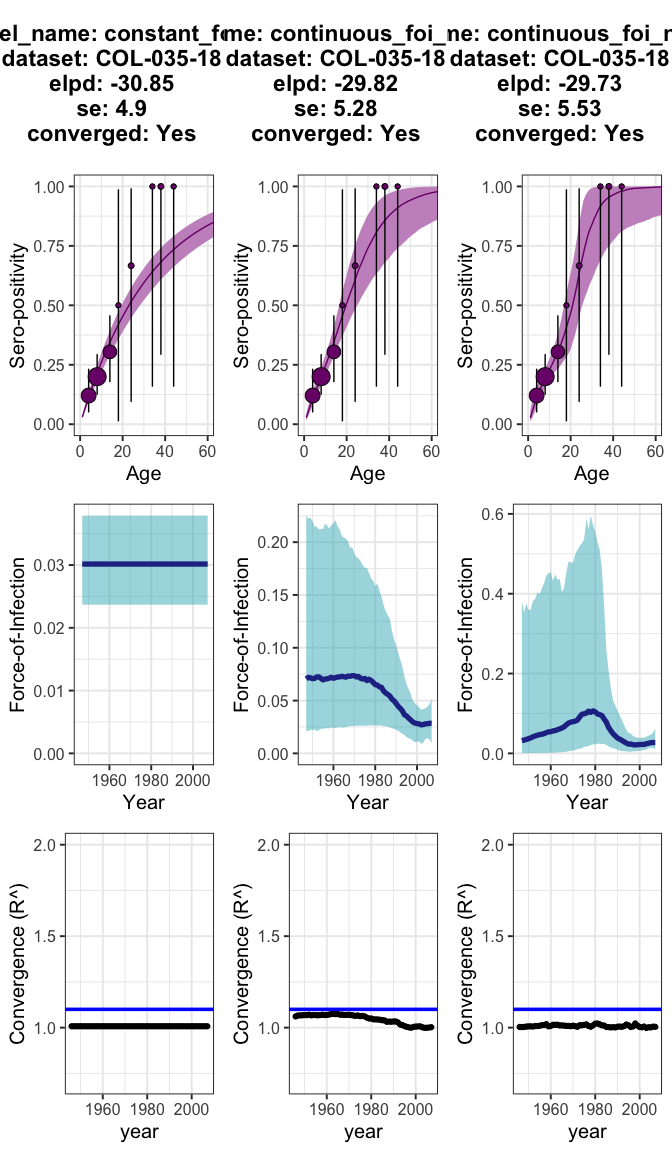
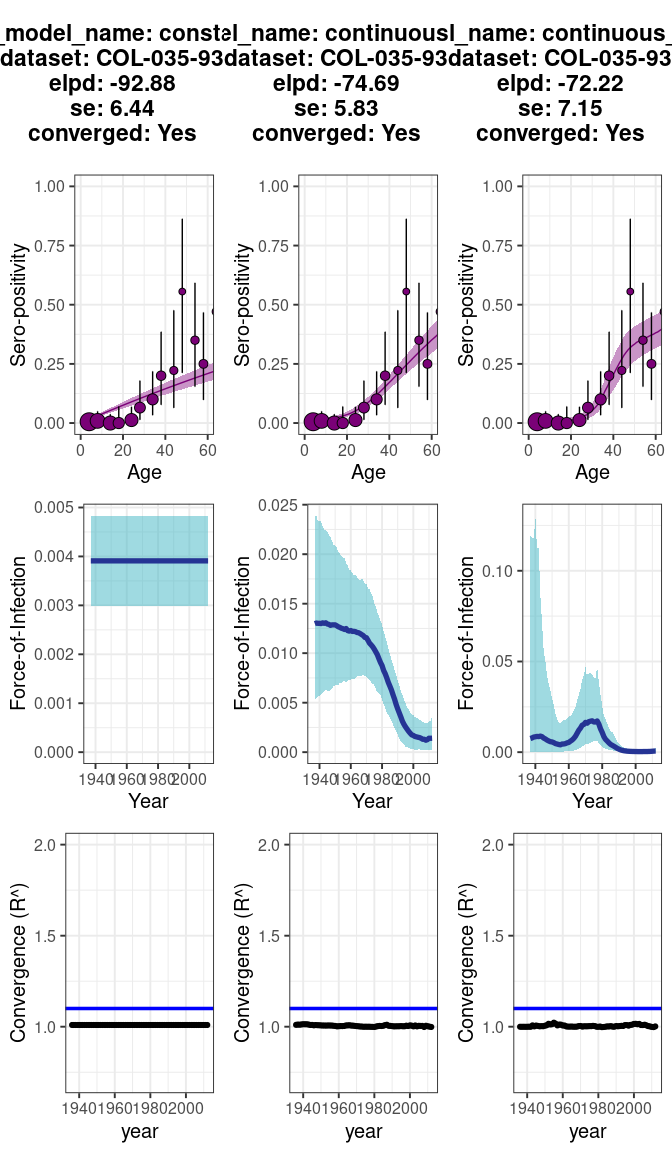
Updated badges in README.Rmd. Updated README.md with latest changes from README.Rmd

diff --git a/README.md b/README.md
@@ -7,8 +7,7 @@
 MIT](https://img.shields.io/badge/License-MIT-yellow.svg)](https://opensource.org/licenses/MIT)
 [![R-CMD-check](https://github.com/TRACE-LAC/serofoi/actions/workflows/R-CMD-check.yaml/badge.svg)](https://github.com/TRACE-LAC/serofoi/actions/workflows/R-CMD-check.yaml)
 [![Codecov test
-coverage](https://codecov.io/gh/TRACE-LAC/serofoi/branch/bugfixes-jaime/graph/badge.svg)](https://github.com/TRACE-LAC/serofoi?branch=bugfixes-jaime)
-
+coverage](https://codecov.io/gh/TRACE-LAC/serofoi/branch/dev/graph/badge.svg)](https://app.codecov.io/gh/TRACE-LAC/serofoi/tree/dev/R?displayType=list)
 [![lifecycle-concept](https://raw.githubusercontent.com/reconverse/reconverse.github.io/master/images/badge-concept.svg)](https://www.reconverse.org/lifecycle.html#concept)
 
 <!-- badges: end -->
@@ -17,8 +16,8 @@ coverage](https://codecov.io/gh/TRACE-LAC/serofoi/branch/bugfixes-jaime/graph/ba
 given pathogen from age-disaggregated population based sero-prevalence
 studies, using a Bayesian framework.
 
-***serofoi*** implements methods outlined in ([Cucunubá et al.
-2017](#ref-cucunubá2017)) and ([Carrera et al. 2020](#ref-carrera2020))
+***serofoi*** implements methods outlined in (Cucunubá et al.
+[2017](#ref-cucunubá2017)) and (Carrera et al. [2020](#ref-carrera2020))
 
 ***serofoi*** relies on
 [`rstan`](https://mc-stan.org/users/interfaces/rstan)
@@ -43,27 +42,28 @@ The package provides an example dataset of the observed serosurvey data,
 `serodata`. This example is the basic entry for the package.
 
 ``` r
-head(serodata)
-#>       survey total counts age_min age_max year_init year_end tsur country
-#> 1 COL-035-18     2      0       1       1      2007     2007 2007     COL
-#> 2 COL-035-18     1      0       2       2      2007     2007 2007     COL
-#> 3 COL-035-18    13      2       4       4      2007     2007 2007     COL
-#> 4 COL-035-18    25      5       5       5      2007     2007 2007     COL
-#> 5 COL-035-18    17      0       6       6      2007     2007 2007     COL
-#> 6 COL-035-18    20      4       7       7      2007     2007 2007     COL
-#>      test antibody
-#> 1 ELISA .      IgG
-#> 2 ELISA .      IgG
-#> 3 ELISA .      IgG
-#> 4 ELISA .      IgG
-#> 5 ELISA .      IgG
-#> 6 ELISA .      IgG
+
+# Load example serodata data included with the package
+data(serodata)
+head(serodata, 5)
+#>       survey total counts age_min age_max year_init year_end tsur country  test
+#> 1 COL-035-93    34      0       1       1      2012     2012 2012     COL ELISA
+#> 2 COL-035-93    25      0       2       2      2012     2012 2012     COL ELISA
+#> 3 COL-035-93    35      1       3       3      2012     2012 2012     COL ELISA
+#> 4 COL-035-93    29      0       4       4      2012     2012 2012     COL ELISA
+#> 5 COL-035-93    36      0       5       5      2012     2012 2012     COL ELISA
+#>           antibody
+#> 1 IgG anti-T.cruzi
+#> 2 IgG anti-T.cruzi
+#> 3 IgG anti-T.cruzi
+#> 4 IgG anti-T.cruzi
+#> 5 IgG anti-T.cruzi
 ```
 
-The function `prepare_seroprev_data` will prepare the entry data for entering the
-modelling functions. The seroprevalence *prepared data* can be
-visualised with the `plot_seroprev` function. This function also plots
-the binomial confidence interval of the observed data.
+The function `prepare_seroprev_data` will prepare the entry data for
+entering the modelling functions. The seroprevalence *prepared data* can
+be visualised with the `plot_seroprev` function. This function also
+plots the binomial confidence interval of the observed data.
 
 ``` r
 
@@ -76,15 +76,15 @@ plot_seroprev(data_test, size_text = 15)
 
 #### Current version of the package runs ***three*** different FoI models
 
-The `run_seroprev_model` function allows specifying the Bayesian model from *R*,
-while running in the back from `rstan`. The number of iterations,
-thinning, and other parameters can be customised.
+The `run_seroprev_model` function allows specifying the Bayesian model
+from *R*, while running in the back from `rstan`. The number of
+iterations, thinning, and other parameters can be customised.
 
 <div class="alert alert-primary">
 
 NOTE: Running the *serofoi* models for the first time on your local
 computer make take a few minutes while the *rstan* code is compiled
-locally. Afterwards, no further compilation is needed.
+locally. Afterwards, no further local compilation is needed.
 
 </div>
 
@@ -100,19 +100,19 @@ model_1 <- run_seroprev_model(seroprev_data = data_test,
                      n_iters = 500, 
                      n_thin = 2)
 #> [1] "serofoi model constant_foi_bi finished running ------"
-#>            [,1]             
-#> seroprev_model_name "constant_foi_bi"
-#> dataset    "COL-035-18"     
-#> country    "COL"            
-#> year       "2007"           
-#> test       "ELISA ."        
-#> antibody   "IgG"            
-#> n_sample   "212"            
-#> n_agec     "27"             
-#> n_iter     "500"            
-#> elpd       "-30.85"         
-#> se         "4.9"            
-#> converged  "Yes"
+#>                     [,1]              
+#> seroprev_model_name "constant_foi_bi" 
+#> dataset             "COL-035-93"      
+#> country             "COL"             
+#> year                "2012"            
+#> test                "ELISA"           
+#> antibody            "IgG anti-T.cruzi"
+#> n_sample            "747"             
+#> n_agec              "72"              
+#> n_iter              "500"             
+#> elpd                "-92.88"          
+#> se                  "6.44"            
+#> converged           "Yes"
 ```
 
 #### Model 2. Time-varying Force-of-Infection (epidemic model)
@@ -129,19 +129,19 @@ model_2 <- run_seroprev_model(seroprev_data = data_test,
                      n_iters = 1500, 
                      n_thin = 2)
 #> [1] "serofoi model continuous_foi_normal_bi finished running ------"
-#>            [,1]                      
+#>                     [,1]                      
 #> seroprev_model_name "continuous_foi_normal_bi"
-#> dataset    "COL-035-18"              
-#> country    "COL"                     
-#> year       "2007"                    
-#> test       "ELISA ."                 
-#> antibody   "IgG"                     
-#> n_sample   "212"                     
-#> n_agec     "27"                      
-#> n_iter     "1500"                    
-#> elpd       "-29.82"                  
-#> se         "5.28"                    
-#> converged  "Yes"
+#> dataset             "COL-035-93"              
+#> country             "COL"                     
+#> year                "2012"                    
+#> test                "ELISA"                   
+#> antibody            "IgG anti-T.cruzi"        
+#> n_sample            "747"                     
+#> n_agec              "72"                      
+#> n_iter              "1500"                    
+#> elpd                "-74.69"                  
+#> se                  "5.83"                    
+#> converged           "Yes"
 ```
 
 #### Model 3. Time-varying Force-of-Infection (fast epidemic model)
@@ -155,31 +155,31 @@ model_3 <- run_seroprev_model(seroprev_data = data_test,
                      n_iters = 1500, 
                      n_thin = 2)
 #> [1] "serofoi model continuous_foi_normal_log finished running ------"
-#>            [,1]                       
+#>                     [,1]                       
 #> seroprev_model_name "continuous_foi_normal_log"
-#> dataset    "COL-035-18"               
-#> country    "COL"                      
-#> year       "2007"                     
-#> test       "ELISA ."                  
-#> antibody   "IgG"                      
-#> n_sample   "212"                      
-#> n_agec     "27"                       
-#> n_iter     "1500"                     
-#> elpd       "-29.73"                   
-#> se         "5.53"                     
-#> converged  "Yes"
+#> dataset             "COL-035-93"               
+#> country             "COL"                      
+#> year                "2012"                     
+#> test                "ELISA"                    
+#> antibody            "IgG anti-T.cruzi"         
+#> n_sample            "747"                      
+#> n_agec              "72"                       
+#> n_iter              "1500"                     
+#> elpd                "-72.22"                   
+#> se                  "7.15"                     
+#> converged           "Yes"
 ```
 
-For each model, the plot_seroprev_model function generate a vertical arrange of
-plots summarising the results of the model implementation plotting
-functions. Crucially, it shows the (expected) log-predictive density
-`elpd`, standard error `se`, and allows to check convergence based on
-`R-hat` convergence diagnostics.
+For each model, the plot\_seroprev\_model function generate a vertical
+arrange of plots summarising the results of the model implementation
+plotting functions. Crucially, it shows the (expected) log-predictive
+density `elpd`, standard error `se`, and allows to check convergence
+based on `R-hat` convergence diagnostics.
 
-Also, the `plot_seroprev_models_list` allows a visual a comparison of the models
-based on the (expected) log-predictive density `elpd`, standard error
-`se`, and allows to check convergence based on `R-hat` convergence
-diagnostics.
+Also, the `plot_seroprev_models_grid` allows a visual a comparison of
+the models based on the (expected) log-predictive density `elpd`,
+standard error `se`, and allows to check convergence based on `R-hat`
+convergence diagnostics.
 
 For more detailed information and examples, please check the [online
 documentation](https://epiverse-trace.github.io/serofoi/articles) as
@@ -189,20 +189,21 @@ package vignettes under Get Started.
 
 Contributors to the project include:
 
-- [Zulma M. Cucunubá](https://github.com/zmcucunuba) (author,
-  maintainer)
+  - [Zulma M. Cucunubá](https://github.com/zmcucunuba) (author,
+    maintainer)
 
-- [Nicolás Tórres](https://github.com/ntorresd) (author)
+  - [Nicolás Tórres](https://github.com/ntorresd) (author)
 
-- [Benjamin Lambert](https://ben-lambert.com/about/) (author)
+  - [Benjamin Lambert](https://ben-lambert.com/about/) (author)
 
-- [Pierre Nouvellet](https://github.com/pnouvellet) (author)
+  - [Pierre Nouvellet](https://github.com/pnouvellet) (author)
 
-- [Miguel Gamez](https://github.com/megamezl) (contributor)
+  - [Miguel Gamez](https://github.com/megamezl) (contributor)
 
-- [Geraldine Gómez](https://github.com/megamezl) (contributor)
+  - [Geraldine Gómez](https://github.com/megamezl) (contributor)
 
-- [Jaime A. Pavlich-Mariscal](https://github.com/jpavlich) (contributor)
+  - [Jaime A. Pavlich-Mariscal](https://github.com/jpavlich)
+    (contributor)
 
 ## Package vignettes
 
@@ -231,9 +232,9 @@ By contributing to this project, you agree to abide by its terms.
 
 ## References
 
-<div id="refs" class="references csl-bib-body hanging-indent">
+<div id="refs" class="references hanging-indent">
 
-<div id="ref-carrera2020" class="csl-entry">
+<div id="ref-carrera2020">
 
 Carrera, Jean-Paul, Zulma M. Cucunubá, Karen Neira, Ben Lambert, Yaneth
 Pittí, Jesus Liscano, Jorge L. Garzón, et al. 2020. “Endemic and
@@ -244,7 +245,7 @@ Tropical Medicine and Hygiene* 103 (6): 2429–37.
 
 </div>
 
-<div id="ref-cucunubá2017" class="csl-entry">
+<div id="ref-cucunubá2017">
 
 Cucunubá, Zulma M, Pierre Nouvellet, Lesong Conteh, Mauricio Javier
 Vera, Victor Manuel Angulo, Juan Carlos Dib, Gabriel Jaime Parra -Henao,
